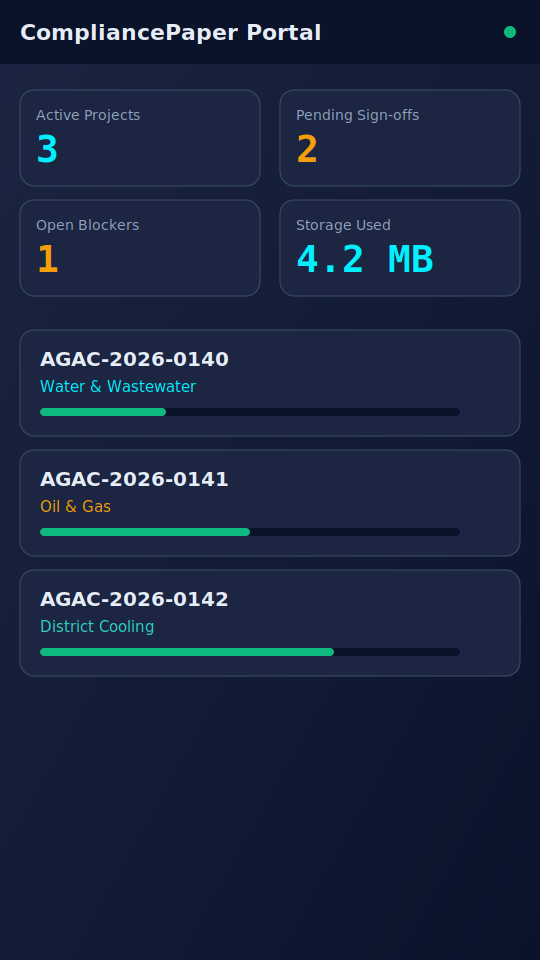
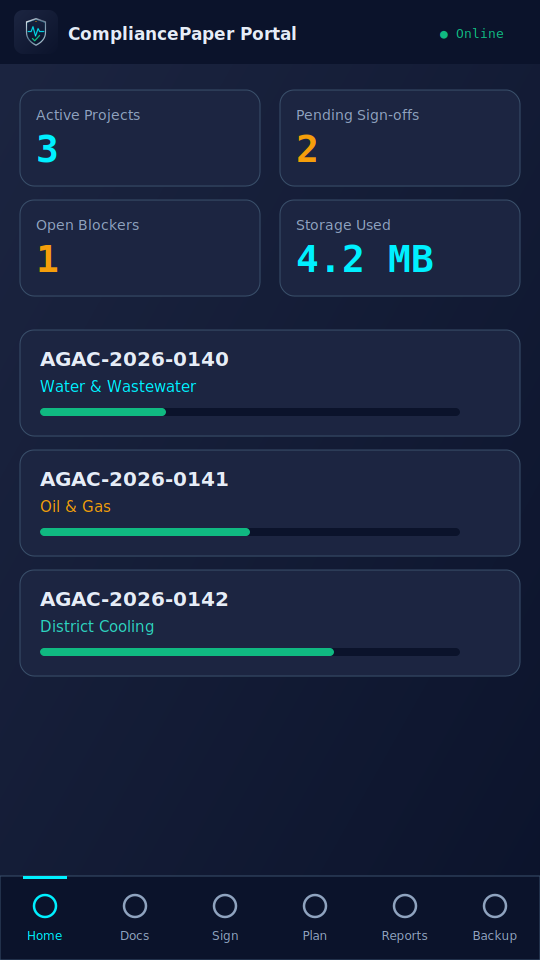
Add files via upload

diff --git a/js/app.js b/js/app.js
@@ -9,26 +9,30 @@ const QA=['OPC UA/DA comms verified','SQL redundancy tested','Alarm escalation m
 const ROLES=['SCADA Lead','Project Manager','QHSE Officer','Client Witness'];
 const NAV=[['dash','Dashboard','chart'],['gen','Generate','doc'],['docs','Documents','shield'],['plan','Plan & QA','list'],['rep','Reports','sig'],['store','Backup','db']];
 const bc='BroadcastChannel'in window?new BroadcastChannel('cpp'):null;
-let view='dash',pads=[],P=null,PR=[],wl=null,reg=null,ip=null;
+let PEND=0,view='dash',pads=[],P=null,PR=[],wl=null,reg=null,ip=null;
 const cur=()=>PR.find(p=>p.id===P),mb=x=>(x/1048576).toFixed(1)+' MB',today=()=>new Date().toISOString().slice(0,10);
+const tel=()=>{$('#tel').textContent=`GST ${new Date().toLocaleTimeString('en-GB',{timeZone:'Asia/Dubai'})} · PRJ ${PR.length} · PEND ${PEND}`};setInterval(tel,1000);
 const skel=n=>'<div class="skel"></div>'.repeat(n);
 function toast(m,s){const t=$('#toast');t.innerHTML=m;t.hidden=false;if(!s)setTimeout(()=>t.hidden=true,3500)}
 function dl(n,b){const a=document.createElement('a');a.href=URL.createObjectURL(b);a.download=n;a.click()}
 function printHTML(h){$('#printarea').innerHTML=h;setTimeout(()=>print(),100)}
 async function load(){PR=await DB.all('projects');const a=await DB.get('kv','active');P=a&&PR.some(p=>p.id===a.v)?a.v:(PR[0]&&PR[0].id)||null;$('#ps').innerHTML=PR.map(p=>`<option value="${p.id}" ${p.id===P?'selected':''}>${esc(p.name)}</option>`).join('')||'<option>No project</option>';$('#ps').parentNode.querySelector('label')||$('#ps').insertAdjacentHTML('afterend','<label>Active Project</label>')}
 async function setP(id){await DB.put('kv',{id:'active',v:id});await load();show(view)}
-async function badge(){const n=(await DB.all('docs')).filter(x=>ROLES.some(r=>!x.sigs[r])).length;try{n?await navigator.setAppBadge(n):await navigator.clearAppBadge()}catch(e){}}
+async function badge(){const n=(await DB.all('docs')).filter(x=>ROLES.some(r=>!x.sigs[r])).length;PEND=n;tel();try{n?await navigator.setAppBadge(n):await navigator.clearAppBadge()}catch(e){}}
 const changed=()=>{badge();bc&&bc.postMessage({t:'sync'})};
 const fld=(f,v='',req)=>`<div class="f${f[2]==='date'?' up':''}"><input name="${f[0]}" type="${f[2]||'text'}" value="${esc(v)}" placeholder=" " ${req?'required':''}><label>${f[1]}</label></div>`;
 const area=(id,l)=>`<div class="f"><textarea id="${id}" rows="3" placeholder=" "></textarea><label>${l}</label></div>`;
 const need=()=>`<div class="card"><h3>${ic('bulb')} No project selected</h3><p>Pick a project in the header, or start with a ready-made sample.</p>${skel(2)}${bt('dl','Load Sample AGAC Project','','data-smp')}${bt('chart','Go to Dashboard','s','data-go="dash"')}</div>`;
 function docHTML(d){const T=TEMPLATES[d.type];return `<div class="doc"><h1>${esc(T.name)}</h1><p><b>Al Gurg Automation and Controls (AGAC)</b> · Dubai, UAE · ${esc(d.title)}</p>${T.body(Object.fromEntries(Object.entries(d.data).map(([k,v])=>[k,esc(v)])))}<div class="sigs">${ROLES.map(r=>`<div><b>${r}</b><br>${d.sigs[r]?`<img src="${d.sigs[r]}">`:'<br><br>'}<hr></div>`).join('')}</div></div>`}
-async function sample(){const id=crypto.randomUUID(),t=Date.now(),n='Sample WTP Pumping SCADA Upgrade',j='AGAC-2026-0142',c='Sample Water Utility';
-await DB.put('projects',{id,name:n,jobNo:j,client:c,sector:'Water & Wastewater',created:t});await DB.put('kv',{id:'plan:'+id,m:{0:true,1:true,2:true},q:{0:true,1:true}});
-const d={project:n,jobNo:j,client:c,sector:'Water & Wastewater',consultant:'Sample Consultant',platform:'System Platform 2023 R2',tags:'PMP_101.RUN, PMP_101.FLT, TK_201.LVL',date:today(),location:'AGAC Dubai Workshop',result:'Pass with punch list',punch:'Category B: update alarm text for TK_201'};
-await DB.put('docs',{id:crypto.randomUUID(),pid:id,type:'fat',title:n+' – '+TEMPLATES.fat.name,data:d,sigs:Object.fromEntries(ROLES.map(r=>[r,null])),created:t});
-await DB.put('reports',{id:crypto.randomUUID(),pid:id,date:today(),type:'Daily',progress:'Tag testing 60% complete.',blockers:'Awaiting client tag list rev C',created:t});
-await DB.put('kv',{id:'active',v:id});await load();show('dash');changed();toast('Sample project loaded ✔')}
+async function sample(){const t=Date.now(),S=[
+{n:'Ruwais Pipeline RTU & Custody Transfer SCADA',j:'AGAC-2026-0187',c:'Sample Oil & Gas Operator',s:'Oil & Gas',tg:'FT_1001.FLOW, PT_1002.PRESS, ESD_1003.TRIP, XV_1004.POS',m:[0,1,2,3],q:[0,1,2],pun:'Cat A: none. Cat B: ESD_1003 trip-latch alarm text. Cat C: update P&ID rev tags.',b:'Awaiting client tag list rev C for custody-transfer meters'},
+{n:'Dubai District Cooling Plant ETS Optimisation',j:'AGAC-2026-0203',c:'Sample District Cooling Operator',s:'District Cooling Plants',tg:'CH_01.KW, CH_01.CHWST, CH_01.CHWRT, ETS_12.BTU',m:[0,1,2],q:[0,1],pun:'Cat B: chiller sequencing trend scaling. Cat C: ETS meter naming.',b:''}];let first=null;
+for(const x of S){const id=crypto.randomUUID();first=first||id;await DB.put('projects',{id,name:x.n,jobNo:x.j,client:x.c,sector:x.s,created:t});
+await DB.put('kv',{id:'plan:'+id,m:Object.fromEntries(x.m.map(i=>[i,true])),q:Object.fromEntries(x.q.map(i=>[i,true]))});
+const d={project:x.n,jobNo:x.j,client:x.c,sector:x.s,consultant:'Sample Consultant',platform:'System Platform 2023 R2',tags:x.tg,date:today(),location:'AGAC Dubai Workshop',result:'Pass with punch list',punch:x.pun};
+await DB.put('docs',{id:crypto.randomUUID(),pid:id,type:'fat',title:x.n+' – '+TEMPLATES.fat.name,data:d,sigs:Object.fromEntries(ROLES.map(r=>[r,null])),created:t});
+await DB.put('reports',{id:crypto.randomUUID(),pid:id,date:today(),type:'Daily',progress:'FAT checklist: comms, tag testing and redundancy failover executed.',blockers:x.b,created:t})}
+await DB.put('kv',{id:'active',v:first});await load();show('dash');changed();toast('2 sample projects saved to IndexedDB ✔')}
 const kpi=(l,v,s,c)=>`<div class="card kpi" style="--k:${c}"><small>${l}</small><b>${v}</b><span>${s}</span></div>`;
 const V={
 async dash(){const docs=await DB.all('docs'),reps=await DB.all('reports'),e=await DB.estimate();
@@ -46,17 +50,17 @@ async rep(){if(!P)return need();const a=(await DB.all('reports')).filter(r=>r.pi
 async store(){const e=await DB.estimate(),pc=e.quota?e.usage/e.quota*100:0,ps=navigator.storage&&navigator.storage.persisted?await navigator.storage.persisted():false;return `<div class="card"><h3>Storage</h3><div class="bar"><i style="width:${Math.max(pc,.5)}%"></i></div><p class="mono">${mb(e.usage||0)} / ${mb(e.quota||0)} (${pc.toFixed(2)}%) · persistent: ${ps?'granted':'not granted'}</p>${bt('dl','Backup everything (.agac)','','id="bk"')}<label class="btn s">${ic('refresh')}<span>Restore .agac / .json</span><input type="file" id="rst" accept=".agac,.json" hidden></label></div>`}};
 async function show(v){view=v;history.replaceState(null,'','#'+v);document.querySelectorAll('#nav button').forEach(b=>b.classList.toggle('on',b.dataset.v===v));$('#view').innerHTML=await V[v]();bind[v]&&bind[v]();scrollTo(0,0)}
 async function importFile(f){try{const n=await DB.importAll(JSON.parse(await f.text()));await load();await show(view);changed();toast(`Imported ${n} records ✔`)}catch(x){toast('Import failed: '+esc(x.message))}}
-const bind={dash(){const b=$('#np');b&&(b.onclick=async()=>{const g=n=>document.querySelector(`#view [name=${n}]`).value.trim();if(!g('name'))return toast('Enter a project name');const id=crypto.randomUUID();await DB.put('projects',{id,name:g('name'),jobNo:g('jobNo'),client:g('client'),sector:g('sector'),created:Date.now()});await DB.put('kv',{id:'active',v:id});await load();show('dash')});
+const bind={dash(){const b=$('#np');b&&(b.onclick=async()=>{const g=n=>document.querySelector(`#view [name=${n}]`).value.trim();if(!g('name'))return toast('Enter a project name');const id=crypto.randomUUID();await DB.put('projects',{id,name:g('name'),jobNo:g('jobNo'),client:g('client'),sector:g('sector'),created:Date.now()});await DB.put('kv',{id:'active',v:id});await load();show('dash');toast('Project committed to IndexedDB ✔')});
 document.querySelectorAll('[data-sw]').forEach(b=>b.onclick=()=>setP(b.dataset.sw));
 document.querySelectorAll('[data-ex]').forEach(b=>b.onclick=async()=>dl(PR.find(p=>p.id===b.dataset.ex).name.replace(/\W+/g,'_')+'.agac',new Blob([JSON.stringify(await DB.exportAll(b.dataset.ex))],{type:'application/x-agac'})));
 document.querySelectorAll('[data-rm]').forEach(b=>b.onclick=async()=>{if(confirm('Delete this project and ALL its documents and reports?')){await DB.removeProject(b.dataset.rm);await load();show('dash');changed()}})},
 gen(){const p=cur(),fs=()=>{const t=TEMPLATES[$('#tp').value],pre={project:p.name,jobNo:p.jobNo,client:p.client,date:today()};$('#fs').innerHTML=[...COMMON,...t.extra].map(f=>fld(f,pre[f[0]]||'',['project','jobNo','client'].includes(f[0]))).join('')};$('#tp').onchange=fs;fs();pads=ROLES.map((r,i)=>new Pad($('#sg'+i)));document.querySelectorAll('[data-c]').forEach(b=>b.onclick=()=>pads[b.dataset.c].clear());
 const collect=()=>{const t=$('#tp').value,data={sector:p.sector};document.querySelectorAll('#fs input').forEach(i=>data[i.name]=i.value);const sigs={};ROLES.forEach((r,i)=>sigs[r]=pads[i].data());return{id:crypto.randomUUID(),pid:P,type:t,title:(data.project||'Untitled')+' – '+TEMPLATES[t].name,data,sigs,created:Date.now()}};
 const ok=()=>{$('#fs').classList.add('was-validated');if(document.querySelectorAll('#fs input:invalid').length){toast('Complete the highlighted fields');return false}return true};
-$('#save').onclick=async()=>{if(!ok())return;await DB.put('docs',collect());changed();toast('Saved ✔')};$('#prev').onclick=()=>ok()&&printHTML(docHTML(collect()))},
+$('#save').onclick=async()=>{if(!ok())return;const d=collect();await DB.put('docs',d);changed();toast('Document + '+ROLES.filter(r=>d.sigs[r]).length+' signature(s) committed to IndexedDB ✔')};$('#prev').onclick=()=>ok()&&printHTML(docHTML(collect()))},
 docs(){document.querySelectorAll('[data-p]').forEach(b=>b.onclick=async()=>printHTML(docHTML(await DB.get('docs',b.dataset.p))))},
-plan(){document.querySelectorAll('[data-k]').forEach(c=>c.onchange=async()=>{window._p[c.dataset.k][c.dataset.i]=c.checked;await DB.put('kv',window._p);bc&&bc.postMessage({t:'sync'});show('plan')})},
-rep(){$('#rs').onclick=async()=>{const g=n=>document.querySelector(`#view [name=${n}]`).value;await DB.put('reports',{id:crypto.randomUUID(),pid:P,date:g('date'),type:g('type'),progress:$('#rp').value,blockers:$('#rb').value,created:Date.now()});changed();toast('Report saved ✔');show('rep')};
+plan(){document.querySelectorAll('[data-k]').forEach(c=>c.onchange=async()=>{window._p[c.dataset.k][c.dataset.i]=c.checked;await DB.put('kv',window._p);bc&&bc.postMessage({t:'sync'});toast('Progress committed to IndexedDB ✔');show('plan')})},
+rep(){$('#rs').onclick=async()=>{const g=n=>document.querySelector(`#view [name=${n}]`).value;await DB.put('reports',{id:crypto.randomUUID(),pid:P,date:g('date'),type:g('type'),progress:$('#rp').value,blockers:$('#rb').value,created:Date.now()});changed();toast('Report committed to IndexedDB ✔');show('rep')};
 document.querySelectorAll('[data-cl]').forEach(b=>b.onclick=async()=>{const r=await DB.get('reports',b.dataset.cl);r.cleared=true;await DB.put('reports',r);changed();show('rep')});
 document.querySelectorAll('[data-r]').forEach(b=>b.onclick=async()=>{const r=await DB.get('reports',b.dataset.r);printHTML(`<div class="doc"><h1>SCADA ${esc(r.type)} Progress Report</h1><p>${esc(cur().name)} · ${esc(r.date)}</p><h3>Progress</h3><p>${esc(r.progress)}</p><h3>Blockers</h3><p>${esc(r.blockers)}</p></div>`)})},
 store(){$('#bk').onclick=async()=>dl('compliancepaper-backup-'+today()+'.agac',new Blob([JSON.stringify(await DB.exportAll())],{type:'application/x-agac'}));$('#rst').onchange=e=>importFile(e.target.files[0])}};

diff --git a/index.html b/index.html
@@ -1,4 +1,4 @@
 <!doctype html><html lang="en"><head><meta charset="utf-8"><meta name="viewport" content="width=device-width,initial-scale=1,viewport-fit=cover"><title>CompliancePaper Portal</title><meta name="theme-color" content="#0B132B"><meta name="mobile-web-app-capable" content="yes"><meta name="apple-mobile-web-app-capable" content="yes"><meta name="apple-mobile-web-app-status-bar-style" content="black-translucent"><link rel="manifest" href="manifest.webmanifest"><link rel="icon" href="favicon.ico"><link rel="apple-touch-icon" href="apple-touch-icon.png"><link rel="preconnect" href="https://fonts.googleapis.com"><link href="https://fonts.googleapis.com/css2?family=Inter:wght@400;600;700&family=JetBrains+Mono:wght@500;700&display=swap" rel="stylesheet"><link rel="stylesheet" href="css/styles.css"></head><body>
-<header><div class="brand"><img src="icons/icon-72.png" alt="" width="34" height="34"><div><b>CompliancePaper Portal</b><small>AGAC · Legal &amp; Sign-Off Tracker</small></div></div><div class="hc"><span id="net" class="net on">● Online</span><div class="f up sel"><select id="ps" title="Active project"></select></div><button id="wl" class="btn s sm" title="Keep screen on"></button><button id="install" class="btn sm" hidden></button></div></header>
+<header><div class="brand"><img src="icons/icon-72.png" alt="" width="34" height="34"><div><b>CompliancePaper Portal</b><small>AGAC · Legal &amp; Sign-Off Tracker</small></div></div><div class="hc"><span id="tel" class="tel"></span><span id="net" class="net on">● Online</span><div class="f up sel"><select id="ps" title="Active project"></select></div><button id="wl" class="btn s sm" title="Keep screen on"></button><button id="install" class="btn sm" hidden></button></div></header>
 <nav id="nav"></nav><main id="view"></main><div id="printarea"></div><div id="toast" hidden></div>
 <script src="js/db.js"></script><script src="js/templates.js"></script><script src="js/signature.js"></script><script src="js/app.js"></script></body></html>

diff --git a/css/styles.css b/css/styles.css
@@ -24,3 +24,5 @@ main{max-width:1100px;margin:auto;padding:1rem}.ic{width:20px;height:20px;flex:n
 #printarea{display:none}.doc{background:#fff;color:#000;padding:2rem;font:13px Georgia,serif}.doc h1{font-size:18px;border-bottom:2px solid #0A2540}.doc h3{font-size:14px;margin:12px 0 2px}.doc p{margin:3px 0;text-align:justify}.doc img{height:60px}.doc .fine{font-size:10px;color:#555;margin-top:14px}.sigs{display:grid;grid-template-columns:1fr 1fr;gap:1rem;margin-top:1rem}
 @media(max-width:767px){nav{position:fixed;left:0;right:0;bottom:0;z-index:30;margin:0;gap:0;display:grid;grid-template-columns:repeat(6,1fr);padding:.3rem calc(.3rem + var(--sar)) calc(.3rem + var(--sab)) calc(.3rem + var(--sal));background:rgba(11,19,43,.92);backdrop-filter:blur(16px);border-top:1px solid rgba(255,255,255,.1)}nav button{flex-direction:column;gap:2px;font-size:.6rem;padding:.3rem 0;min-width:0}main{padding-bottom:calc(6rem + var(--sab))}#toast{bottom:calc(5.6rem + var(--sab))}.hc{width:100%}.hc .f.sel{flex:1}}
 @media print{body>*:not(#printarea){display:none!important}#printarea{display:block}body{background:#fff}}
+.tel{font:600 .72rem var(--mono);color:var(--mu);letter-spacing:.03em}@media(max-width:600px){.tel{display:none}}
+@media(max-width:767px){nav button{position:relative}nav .on::before{content:'';position:absolute;top:-4px;left:25%;right:25%;height:3px;border-radius:3px;background:var(--cy);box-shadow:0 0 10px var(--cy)}}

diff --git a/offline.html b/offline.html
@@ -1,1 +1,1 @@
-<!doctype html><meta charset="utf-8"><meta name="viewport" content="width=device-width,initial-scale=1"><title>Offline</title><body style="font-family:sans-serif;background:#0A2540;color:#fff;text-align:center;padding:3rem"><h1>You are offline</h1><p>Reload once back online. Saved documents remain on this device.</p><button onclick="location.href='./index.html'">Open app</button>
+<!doctype html><html lang="en"><meta charset="utf-8"><meta name="viewport" content="width=device-width,initial-scale=1,viewport-fit=cover"><title>Offline</title><meta name="theme-color" content="#0B132B"><body style="margin:0;min-height:100vh;display:grid;place-items:center;text-align:center;font-family:Inter,system-ui,sans-serif;color:#E6EDF7;background:radial-gradient(900px 500px at 10% 0,#1C2541,#0B132B);padding:env(safe-area-inset-top) env(safe-area-inset-right) env(safe-area-inset-bottom) env(safe-area-inset-left)"><div><img src="icons/icon-192.png" width="96" height="96" alt="" style="border-radius:20px"><h1>○ Offline</h1><p style="color:#8FA3BF">Your documents are safe in IndexedDB on this device.</p><button onclick="location.href='./index.html'" style="min-height:48px;padding:0 1.4rem;border:0;border-radius:10px;font-weight:700;background:linear-gradient(135deg,#10B981,#00F0FF);color:#04121f">Open CompliancePaper</button></div></body></html>
